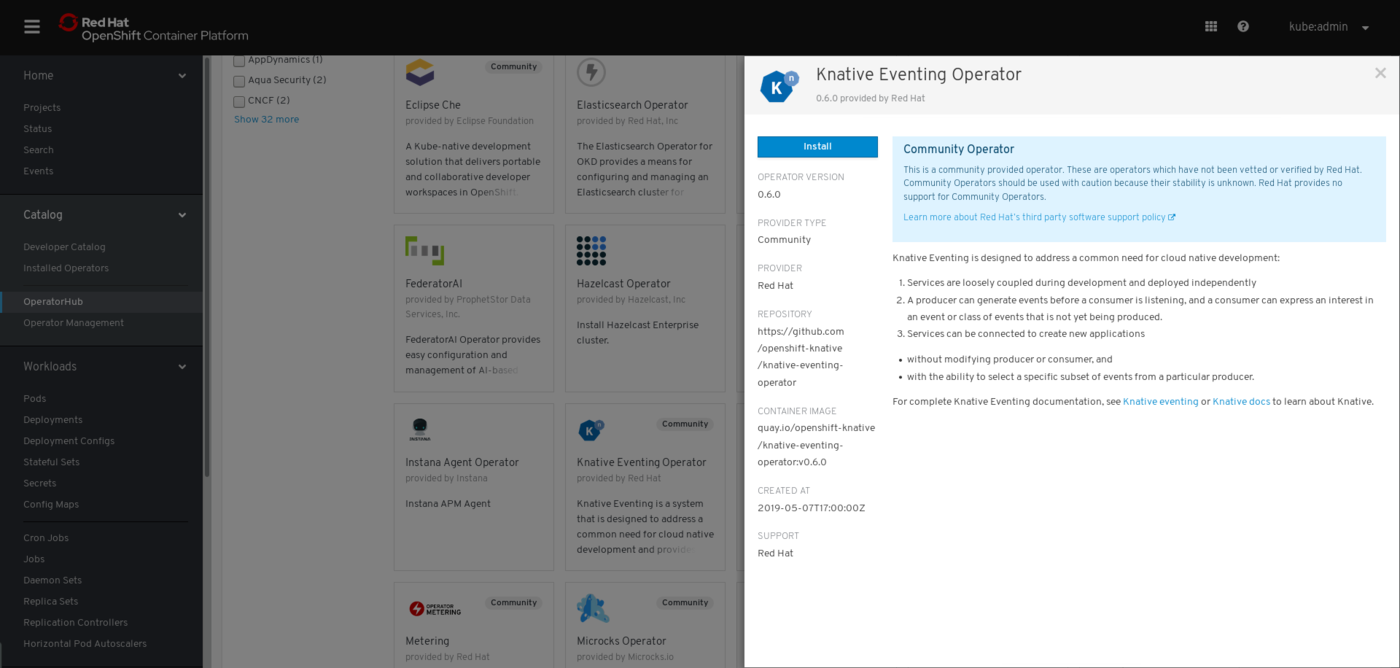
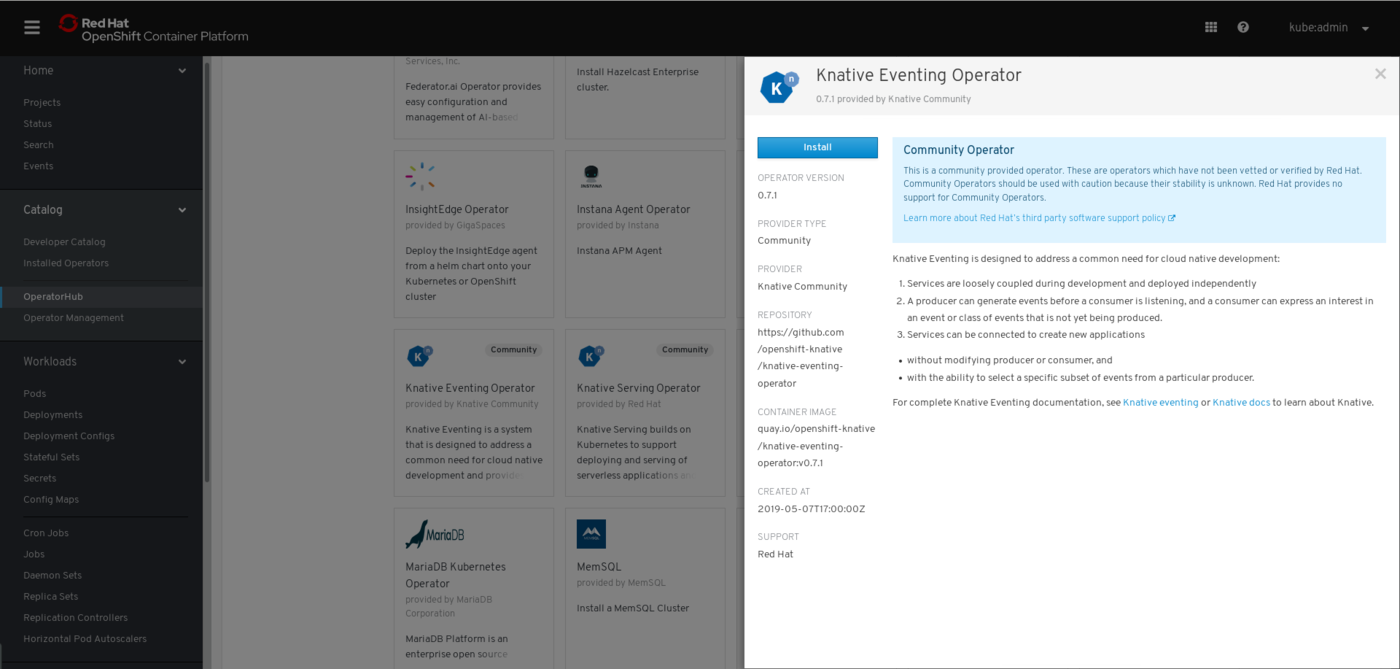
update v071 docs

diff --git a/versions/v071/knative-eventing-v071-OCP-41.md b/versions/v071/knative-eventing-v071-OCP-41.md
@@ -1,0 +1,81 @@
+# Knative Eventing v0.7.1 on OpenShift Serverless
+--------
+
+Knative Eventing can be installed by using the Knative Eventing Operator available on the OpenShift OperatorHub.
+
+> **IMPORTANT:** This release introduces Knative Knative Eventing `v0.7.1` on an OpenShift 4.1 cluster (OCP) and should not be used in a production environment.
+
+> **IMPORTANT:**  ClusterChannelProvisioners have been deprecated and will be removed in future releases. Please use [CRD-based channel implementations](https://github.com/knative/eventing/releases) instead.
+
+| Existing CCP  | Replacement CRDs|
+| ------------- |:-------------:|
+| `in-memory`   | InMemoryChannel
+| `kafka` 	    | KafkaChannel
+
+## Prerequisites
+
+* An OpenShift 4 cluster is required for installation. Visit [try.openshift.com](https://try.openshift.com) for information on setting up an OpenShift 4 cluster.
+
+> **IMPORTANT:**  You will need cluster administrator privileges to install and use Knative on an OpenShift cluster.
+
+### Supported platform versions
+
+| Platform        | Supported versions           |
+| ------------- |:-------------:|
+| OpenShift      | [4.1](https://try.openshift.com/)          |
+
+> **NOTE:**  Long-running clusters are not supported in this release.
+
+
+--------
+## Installing the Knative Eventing Operator
+
+1. Go to **Catalog > OperatorHub** in the OpenShift web console. A list of operators for OpenShift, provided by Red Hat as well as a community of partners and open-source projects is provided. Click on the **Knative Eventing Operator** tile. 
+
+> **NOTE:** Use the **Filter by Keyword** box to facilitate the search of the Knative Eventing operator in the catalog.
+
+![ESO Tile](/images/knative-eventing-tile-highlighted.png)
+
+2. A `Show Community Operator` dialog box will appear. Click **Continue** to proceed.
+
+3. The **Knative Eventing Operator** descriptor screen will appear. Click **Install**.
+
+![ESO Install Screen](/images/knative-eventing-operator-screen.png)
+
+4. On the **Create the Operator Subscription** screen, ensure  **All namespaces on the cluster (default)** is selected under the **Installation Mode** section.
+
+![ESO Namespaces Default](/images/knative-eventing-namespaces-default.png)
+
+> **NOTE:** The Operator Lifecycle Manager (OLM) will install the operator in all namespaces. The installation will create the `knative-eventing` namespace.
+
+5. Confirm the subscription for the installation operator, by viewing the **Subscription Overview**. The **UPGRADE STATUS** will update from `O Installing` to `1 Installed`.
+
+![ESO Upgrade Status](/images/knative-eventing-installed-sub.png)
+
+> **NOTE:** The screen will update after a few minutes. Wait for the `knative-eventing` namespace to appear in the project drop-down menu. Refresh the page if needed.
+
+6. Knative Eventing is now installed. Navigate to **Catalog > Installed Operators** to confirm the operator is installed. Click on `knative-eventing` to view the install status.
+
+![ESO installed](/images/knative-eventing-installed-operator.png)
+
+
+---------
+## Uninstalling the Knative Eventing Operator
+
+1. Go to **Catalog > OperatorHub** in the OpenShift Web Console.
+
+2. Click on the **Knative Eventing Operator** tile.
+
+![ESO Uninstall Tile](/images/knative-eventing-uninstall-tile.png)
+
+> **NOTE:** The tile will indicate whether the operator is installed.
+
+3. The **Show Community Operator**` dialog box will appear. Click **Continue** to proceed.
+
+4. Once the **Knative Eventing Operator** descriptor screen appears, click **Uninstall**.
+
+![ESO Uninstall](/images/knative-eventing-uninstall-operator.png)
+
+5. Select **Also completely remove the Operator from the selected namespace**, in the **Remove Operator Subscription** dialog box.
+
+6. Click **Remove**.

diff --git a/versions/v071/knative-eventing-v071-kafka-operator.md b/versions/v071/knative-eventing-v071-kafka-operator.md
@@ -1,0 +1,85 @@
+# Knative Apache Kafka Operator v0.7.1
+
+This guide walks cluster administrators through installing the Knative Apache Kafka Operator in an OpenShift Container Platform cluster. As a cluster administrator, you can install the operator from the OperatorHub using the OpenShift Container Platform web console. 
+
+
+## Prerequisites
+
+* [Knative Eventing](versions/v071/knative-eventing-v071-OCP-41.md) is installed
+* A running instance of [Apache Kafka](https://github.com/strimzi) 
+
+
+------
+## Installing the Knative Apache Kafka Operator
+
+1. Select the `knative-eventing` project by clicking on **Projects > Create Project** in the web console. 
+
+![KAKO Project](/images/kafka-eventing-project.png)
+
+2. Go to **Catalog > OperatorHub**. A list of operators for OpenShift, provided by Red Hat as well as a community of partners and open-source projects is available. Use the **Filter by Keyword** box to facilitate the search of the Knative Apache Kafka Operator in the catalog.  
+
+3. Click on the **Knative Apache Kafka** tile.
+
+![KAKO Tile](/images/kafka-tile-highlighted.png)
+
+4. A `Show Community Operator` dialog box will appear. Click **Continue** to proceed.
+
+5. The **Knative Apache Kafka Operator** descriptor screen will appear. Click **Install**.
+
+![KAKO Install](/images/kafka-install-operator.png)
+
+6. On the **Create the Operator Subscription** screen
+    - Go to the **Installation Mode** section and choose the default selection. 
+    - Click  **Subscribe**.
+
+![KAKO Subscribe](/images/kafka-default.png)
+
+> **NOTE:** The Knative Apache Kafka Operator does not auto-install all components. Clicking **Subscribe** only installs the Knative Apache Kafka Operator. Manual installation is required to configure the editor, so that all components are installed.
+
+7. Confirm the subscription for the installation operator, by viewing the **Subscription Overview**. Observe as the **UPGRADE STATUS** goes for `0 Installing` to `1 Installed`.
+
+![KAKO Subscription](/images/kafka-subscription-overview.png)
+
+8. Click the `1 Installed` link.
+
+9. Click  **Create New** to install the `Knative Apache Kafka` API.
+
+![KAKO Create New](/images/kafka-create-new.png)
+
+10. In the Custom Resource (CR) dialog
+    - Configure the Kafka channel as the default
+    - Provide the URL to your Kafka instance. 
+    - Click **Create** to set the value.
+
+![KAKO CR Editor](/images/kafka-CR-editor.png)
+
+> **NOTE:**  The editor is pre-populated with definitions. Configure the file by manually entering YAML or JSON definitions, or by dragging and dropping a file into the editor. 
+
+> **NOTE:** During installation, you can set the Kafka Channel as the default channel by using Custom Resources.
+
+11. After some time, three Kafka pods in the Knative Apache Kafka namespace will be listed - two for the channel, one for the source.
+
+12. See the updated **Config Maps**, which reflect the Kafka channel configured as the default.
+
+> **NOTE:** When the channel is configured as the default, each new channel that is created will be a Kafka Channel, which is then backed by a Kafka Topic.
+
+![KAKO Config Maps](/images/kafka-configmap.png)
+
+
+------
+## Uninstalling the Knative Apache Kafka Operator 
+
+1. Go to **Catalog > OperatorHub** 
+
+2. Click on the **Knative Apache Kafka Operator** tile.
+
+>**NOTE:** The operator tile will indicate it is installed.
+
+![KAKO Uninstall Tile](/images/kafka-installed-remove.png)
+ 
+3. Click **Uninstall** on the **Knative Apache Kafka Operator** descriptor screen.
+
+4. In the **Remove Operator Subscription** dialog box
+    - Select **Also completely remove the Operator from the selected namespace**
+    - Click **Remove**. The Apache Kafka Operator subscription is now removed.
+

diff --git a/versions/v071/knative-serving-v071-OCP-41.md b/versions/v071/knative-serving-v071-OCP-41.md
@@ -1,0 +1,72 @@
+# Knative Serving v0.7.1 on OpenShift Serverless
+--------
+
+Knative Serving can be installed by using the Knative Serving Operator available on the OpenShift OperatorHub.
+
+
+> **IMPORTANT:** This release introduces Knative Serving `v0.7.1`on an OpenShift 4.1 cluster (OCP). This release should not be used in a production environment.
+
+
+## Prerequisites
+
+* An OpenShift 4 cluster is required for installation. Visit [try.openshift.com](https://try.openshift.com/) for information on setting up an OpenShift 4 cluster.
+
+> **IMPORTANT:**  You will need cluster administrator privileges to install and use Knative on an OpenShift cluster.
+
+### Supported platform versions
+
+| Platform        | Supported versions           |
+| ------------- |:-------------:|
+| OpenShift      | [4.1](https://try.openshift.com/)          |
+
+> **NOTE:**  Long-running clusters are not supported in this release.
+
+------
+## Installing the Knative Serving Operator
+
+1. Go to **Catalog > OperatorHub** in the OpenShift web console. A list of operators for OpenShift, provided by Red Hat as well as a community of partners and open-source projects is provided. Click on the **Knative Serving Operator** tile.
+
+> **NOTE:** Use the **Filter by Keyword** box to facilitate the search of the Knative Serving operator in the catalog.
+
+![KSO Tile](/images/knative-serving-tile-highlighted.png)
+
+2. A **Show Community Operator** dialog box will open. Click **Continue** to proceed.
+
+3. The **Knative Serving Operator** descriptor screen will appear. Click **Install**.
+
+![KSO Install Screen](/images/knative-serving-operator-screen.png)
+
+4. On the **Create the Operator Subscription** screen, create a new subscription by clicking on the **Subscribe** button. This will install the Knative Serving Operator in the project `openshift-operators` and Knative Serving in the `knative-serving` project.
+
+![KSO Namespaces Default](/images/knative-serving-namespaces-default.png)
+
+> **NOTE:** The Operator Lifecycle Manager (OLM) installs the operator, which will automatically install Knative. This installation will create the `knative-serving`, `istio-operator`, and `istio-system` namespaces.
+
+5. Verify the subscription status for the installation operator, by viewing the **Subscription Overview**. The **UPGRADE STATUS** will update from `0 Installing` to `1 Installed`. 
+
+> **NOTE:** The screen will update after a few minutes. Wait for the `knative-serving` namespace to appear in the project drop-down menu. Refresh the page if needed.
+
+![KSO Upgrade Status](/images/knative-serving-installed-sub.png)
+
+6. Knative Serving is now installed. Navigate to **Catalog > Installed Operators** to confirm the operator is installed. Click on **knative-serving** to view the install status.
+
+![KSO installed](/images/knative-serving-installed-operator.png)
+
+------
+## Uninstalling the Knative Serving Operator
+
+1. Go to **Catalog > OperatorHub** in the OpenShift Web Console.
+
+2. Click on the **Knative Serving Operator** tile.
+
+![KSO Uninstall Tile](/images/knative-serving-uninstall-tile.png)
+
+3. The **Show Community Operator**` dialog box will appear. Click **Continue** to proceed.
+
+4. Once the **Knative Serving Operator** descriptor screen appears, click **Uninstall**.
+
+![KSO Uninstall](/images/knative-serving-uninstall-operator.png)
+
+5. Select **Also completely remove the Operator from the selected namespace**, in the **Remove Operator Subscription** dialog box.
+
+6. Click **Remove**.

diff --git a/versions/v071/knative-eventing-v071-camel-operator.md b/versions/v071/knative-eventing-v071-camel-operator.md
@@ -1,0 +1,60 @@
+# Knative Camel Operator v0.7.1
+
+This guide walks cluster administrators through installing the Knative Camel Operator in an OpenShift Container Platform cluster. As a cluster administrator, you can install the Knative Camel add-on from the OperatorHub using the OpenShift Container Platform web console. 
+
+The Knative Camel add-on allows you to to install Camel Sources from the Developer Catalog.
+
+## Prerequisites
+
+The following must be installed and running on your cluster:
+* [Knative Eventing](versions/v071/knative-serving-v071-OCP-41.md)
+* [Knative Serving](versions/v071/knative-serving-v071-OCP-41.md)
+* [Camel K](https://camel.apache.org/staging/camel-k/latest/index.html)
+
+
+------
+## Installing the Knative Camel Operator
+
+1. Go to **Catalog > OperatorHub**. A list of operators for OpenShift, provided by Red Hat as well as a community of partners and open-source projects is available. Use the **Filter by Keyword** box to facilitate the search of the Knative Camel Operator in the catalog.  
+
+2. Click on the **Knative Camel** tile.
+
+![KACO Tile](/images/camel-tile-highlighted.png)
+
+3. Click **Continue** in the `Show Community Operator` dialog box to proceed. 
+
+4. The **Knative Camel Operator** descriptor screen will appear. Click **Install**.
+
+![KACO Install](/images/camel-install.png)
+
+5. On the **Create the Operator Subscription** screen
+    - Go to the **Installation Mode** section and choose the default selection. 
+    - Click  **Subscribe**.
+
+![KACO Default](/images/kafka-default.png)
+
+6. Confirm the subscription for the installation operator, by viewing the **Subscription Overview**. Observe as the **UPGRADE STATUS** goes for `0 Installing` to `1 Installed`.
+
+![KACO Subscribe](/images/camel-subscription-installed.png)
+
+7. Confirm the operators are installed by navigating to **Catalog > Operator Management** viewing the **Operator Subscriptions** tab.
+
+![KACO Subscriptions](/images/camel-operator-subscriptions.png)
+
+
+
+------
+## Uninstalling the Knative Camel Operator 
+
+1. Go to **Catalog > OperatorHub** 
+
+2. Click on the **Knative Camel Operator** tile.
+
+> **NOTE:** The operator tile will indicate it is installed.
+ 
+3. Click **Uninstall** on the **Knative Camel Operator** descriptor screen.
+
+4. In the **Remove Operator Subscription** dialog box
+    - Select **Also completely remove the Operator from the selected namespace**
+    - Click **Remove**. The Knative Camel Operator subscription is now removed.
+

diff --git a/versions/v071/introducing-operators.md b/versions/v071/introducing-operators.md
@@ -1,0 +1,29 @@
+# Installing Knative Operators from OperatorHub
+
+The Knative Operators offer a method of packaging, deploying, and managing an OpenShift application. An OpenShift application is an application that is both deployed on OpenShift and managed using the OpenShift APIs and tooling.
+
+As a cluster administrator, you can install Knative Operators from the OperatorHub using the OpenShift Container Platform web console. You can then subscribe the Operator to one or more namespaces to make it available on your cluster.
+
+During installation, the user must determine the following initial settings for the Operator:
+
+* Installation Mode
+* Update Channel
+* Approval strategy
+
+
+![Knative default](/images/knative-serving-namespaces-default.png)
+
+
+
+## Installation Mode
+* Choose **All namespaces on the cluster (default)** to have the Operator installed on all namespaces. You can also choose **A specific namespace on the cluster**, if available, to install the operator in a selected namespace.
+
+
+## Update Channel
+* If an Operator is available through multiple channels, you can choose the channel to where it is subscribed. For example, to deploy from the `example` channel, select it from the list drop-down list.
+
+
+## Approval Strategy
+* You can choose **Automatic** or **Manual** updates. If you choose **Automatic** updates for an installed Operator, when a new version of that Operator is available, the OLM automatically upgrades the running instance of your Operator. 
+* If you select **Manual** updates, when a newer version of an Operator is available, the OLM creates an update request. As a cluster administrator, you must then manually approve that update request to have the Operator updated to the new version.
+

diff --git a/versions/v071/rn-knative-v071-OCP-41.md b/versions/v071/rn-knative-v071-OCP-41.md
@@ -1,10 +1,8 @@
-<!--please copy and paste this template into your vXXX folder for the current release and modify there. Do NOT edit this template)-->
-
 ![Release Notes](https://github.com/openshift-knative/docs/blob/master/images/release-notes-banner.png)
 
-# Knative v0.7.0 on OpenShift  
+# Knative v0.7.1 on OpenShift  
 
-**Release Date:** 23 July 2019
+**Release Date:** 17 July 2019
 
 This document describes the latest changes, enhancements, bug fixes and known issues for Knative on OpenShift. It incorporates changes to Knative’s Serving and Eventing components, and may be adopted for consistency and compatibility on OpenShift.
 
@@ -55,4 +53,3 @@ The following components tested on the OpenShift 4.x cluster in this release:
 - https://github.com/knative/docs/releases
 - https://github.com/knative/serving/releases
 - https://github.com/knative/eventing/releases
-- https://github.com/tektoncd/pipeline/releases
